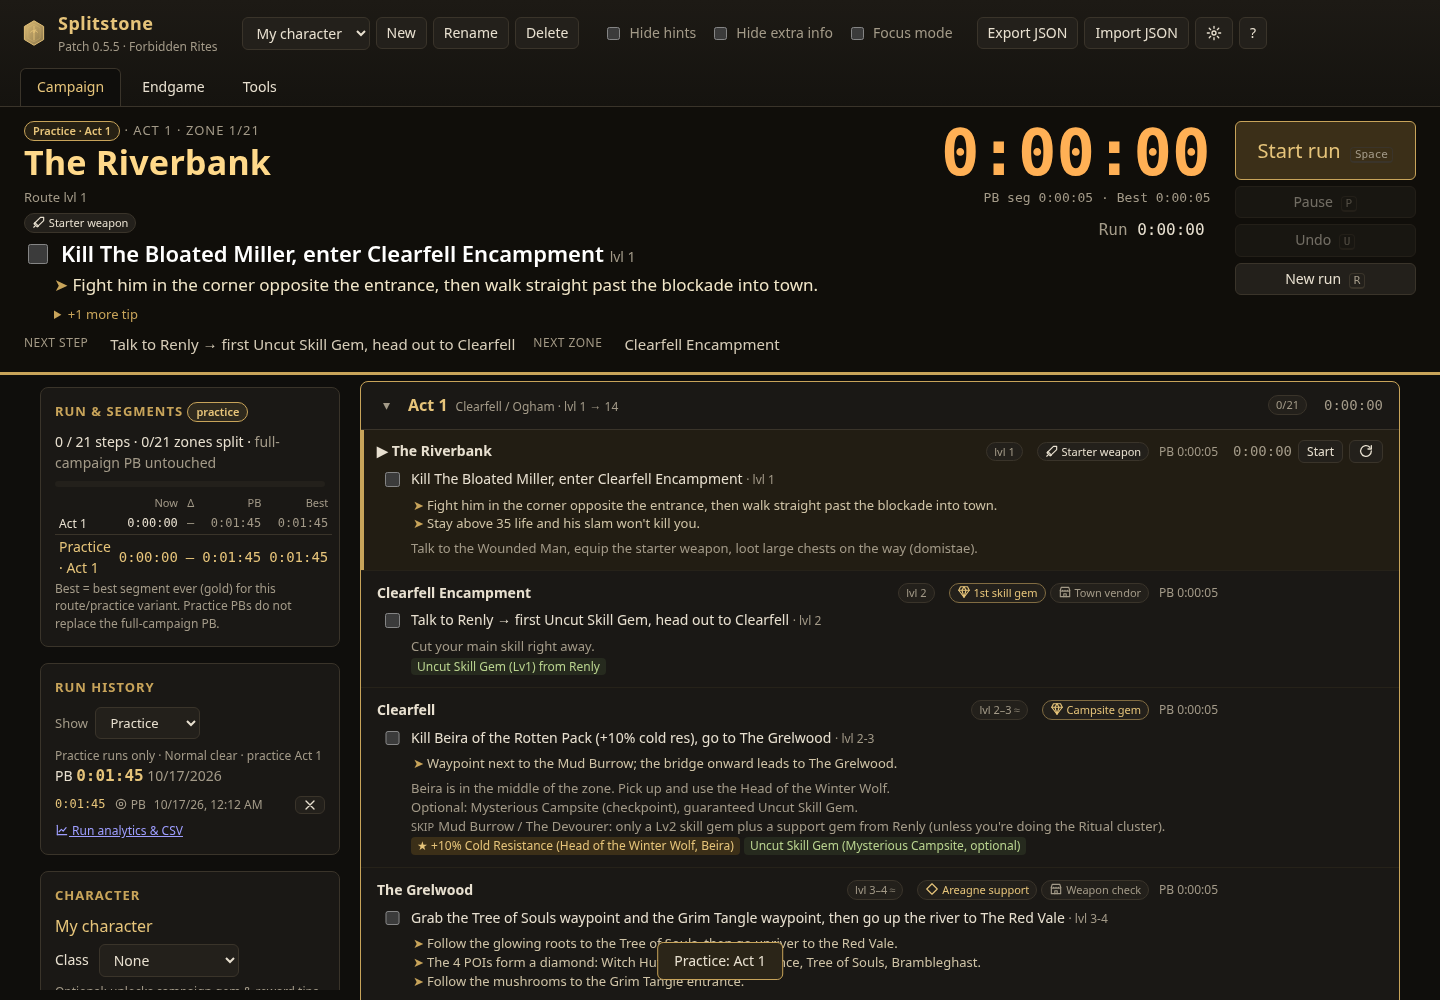
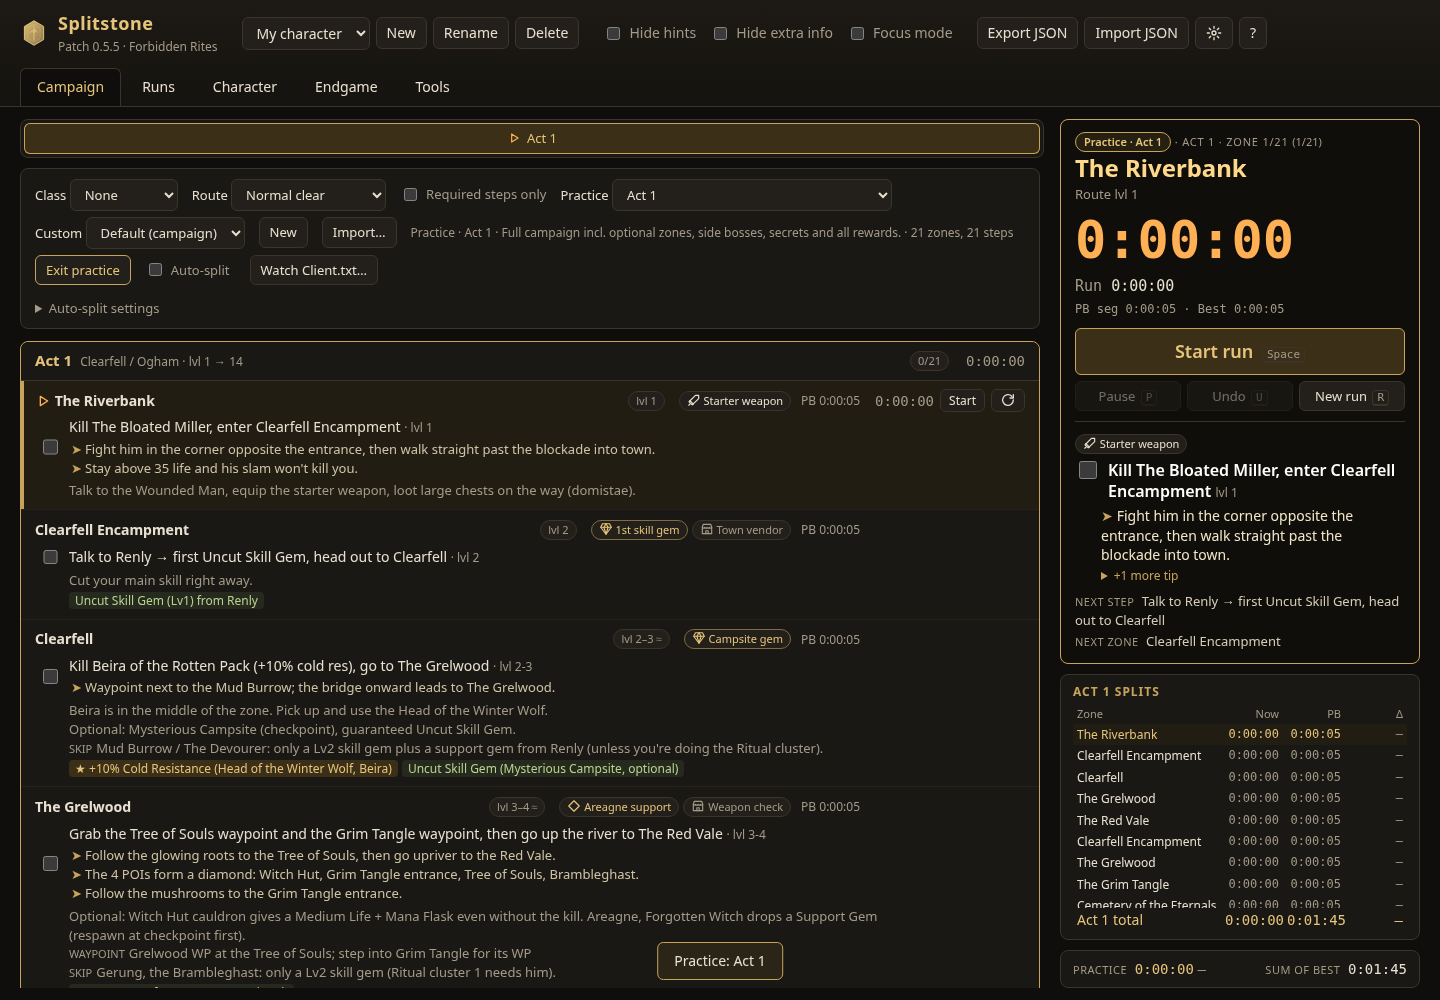
README, changelog and screenshots for the new layout

diff --git a/README.md b/README.md
@@ -37,23 +37,24 @@ Auto-update is on by default (Settings → Desktop to turn off). Full releases o
 
 | | |
 | --- | --- |
-| **Now bar** | Zone, current objective, hints and next step, readable from a second monitor |
+| **Run panel** | Zone, timers, Split, current objective, hint and next step beside the checklist, readable from a second monitor |
+| **One act at a time** | Act and interlude tabs in route order; follows your run, C jumps back to the current zone |
 | **Splits and timers** | Per-zone segments, act and interlude totals, pause, undo, auto-advance |
 | **Routes** | Normal or speedrun route, required-steps-only, practice a single act or zone, custom shareable routes |
 | **History and PBs** | Per-character runs, PBs, gold segments, live delta, trend charts, CSV export |
 | **Ghost race** | Race your PB, best segments, any past run or a friend's ghost: ahead/behind per split, where the ghost is now, time gained or lost per act |
 | **Auto-split** | Splits on zone changes from PoE2's `Client.txt` |
 | **Cues** | Basic-class notes, level/XP warnings, gear and gem checkpoints |
-| **Overlay** | Small top-right panel with the current step, hint and next step |
+| **Overlay** | Small panel at the top centre with the current step, hint and next step |
 | **Endgame** | Map runs with tier, mods, deaths and loot; session stats; atlas progress checklist |
 | **Tools** | One-click links to trade, poe2db, the wiki, PoB2, poe.ninja and more |
 | **PoB2 import, themes** | Paste a Path of Building 2 code; Ember, Slate, Crimson and Parchment themes |
 
 ### In-game overlay
 
-A browser tab can't sit on top of a fullscreen game, so the desktop app draws a small always-on-top panel: current step, hint and next step, nothing else. It's 80% opaque by default (slider in Settings), click-through until you unlock it with `Ctrl+Alt+O` or the tray, and it remembers its position per monitor.
+A browser tab can't sit on top of a fullscreen game, so the desktop app draws a small always-on-top panel: current step, hint and next step, nothing else. It sits at the top centre, just below the boss health bar, and grows downward to fit the whole hint. It's 80% opaque by default (slider in Settings), click-through until you unlock it with `Ctrl+Alt+O` or the tray, and it remembers where you drag it per monitor. Settings → Desktop → Overlay position puts it back at the top centre or left of the minimap.
 
-![Overlay](screenshots/overlay-minimal.png)
+![Overlay](screenshots/overlay-top-center.png)
 
 ### Endgame
 
@@ -65,7 +66,7 @@ The checklist lives in `data/endgame.js`. Items I couldn't confirm in patch note
 
 ### Ghost race
 
-Turn it on under Settings → Ghost race. Pick what to race in the sidebar: your PB (default), your best segments, any saved run of this character, or a ghost a friend sent you. You get the delta for every split and in total, a line under the run timer saying which zone the ghost would be in right now, and how much you gained or lost in each act and interlude. To share a ghost, copy its code (`SSG1.…`) from the panel; to race someone, paste their code or load their Splitstone export file. Only zone times are taken from imports. The overlay stays step, hint and next only.
+Turn it on under Settings → Ghost race. Pick what to race on the Runs tab: your PB (default), your best segments, any saved run of this character, or a ghost a friend sent you. You get the delta for every split and in total, a line under the run timer saying which zone the ghost would be in right now, and how much you gained or lost in each act and interlude. To share a ghost, copy its code (`SSG1.…`) from the panel; to race someone, paste their code or load their Splitstone export file. Only zone times are taken from imports. The overlay stays step, hint and next only.
 
 ![Ghost race](screenshots/ghost-mode.png)
 
@@ -76,6 +77,8 @@ Links to the community sites I keep open while playing. The list is in `data/too
 ![Tools](screenshots/tools.png)
 
 ### Run analytics and practice
+
+Run history, analytics, CSV export and the full Run & Segments table are on the Runs tab; character details and PoB2 import are on the Character tab.
 
 | Run analytics | Practice mode |
 | --- | --- |
@@ -151,6 +154,8 @@ screenshots/          README images
 pip install playwright && python3 -m playwright install chromium
 python3 -m http.server 8765 --bind 127.0.0.1 &
 python3 tests/smoke_test.py
+python3 tests/layout_test.py
+python3 tests/overlay_test.py
 python3 tests/security_test.py
 python3 tests/autosplit_test.py
 python3 tests/endgame_test.py

diff --git a/CHANGELOG.md b/CHANGELOG.md
@@ -1,5 +1,17 @@
 # Changelog
 
+## Unreleased
+
+- Campaign page uses the full window: the checklist on the left and a run panel on the right, in a centred column up to 1600px wide. On desktop the page doesn't scroll; the checklist and the act splits scroll inside their own areas.
+- One act at a time. A tab strip above the checklist lists the acts and interludes in the order the route plays them, each marked done, current or upcoming, with that act's time and delta in the tooltip. Arrow keys, Home and End move between tabs.
+- The current act is selected on load and whenever a split takes you into a new act. Browsing another act doesn't snap back; a "Current act" button and the C hotkey go back to the current act and zone. The act you picked is remembered per character, outside the save file.
+- Completed zones fold to one line (name, time, delta); click to open one. The current and upcoming zones stay open.
+- Run panel: zone and progress, the segment timer with run time, live delta and the ghost line, Split with Pause, Undo and New run under it, the current step with one hint and the next step, the act's splits against your PB, and the campaign total with sum of best.
+- New Runs tab with run history, run analytics and CSV, the full Run & Segments table and the ghost race panel. New Character tab with the character details and PoB2 import. Tabs are now Campaign, Runs, Character, Endgame and Tools.
+- Between 860 and 1279px the panel is narrower and the act splits show the current zone and the act total, with a button to show all. On phones the compact now-bar stays at the top with Split and the timers, the act tabs scroll sideways under it, and the act splits sit below the checklist.
+- Desktop overlay: the full hint shows at every text size, with no clipping, and the window grows to fit it. It's centred at the top of the screen, below the boss health bar, and grows downward. Panel width is 440, 520 or 600px for Small, Medium and Large.
+- Settings → Desktop has an overlay position option (Top center, Top right, or where you dragged it). If your overlay was still at the old top-right default, it moves to top centre; a position you chose is kept.
+
 ## 1.2.0 (2026-10-17)
 
 - Ghost race (Settings → Ghost race, off by default). Race the current run against your PB, your best segments, any saved run of the character, or a ghost imported from someone else's share code (`SSG1.…`) or Splitstone export file.
